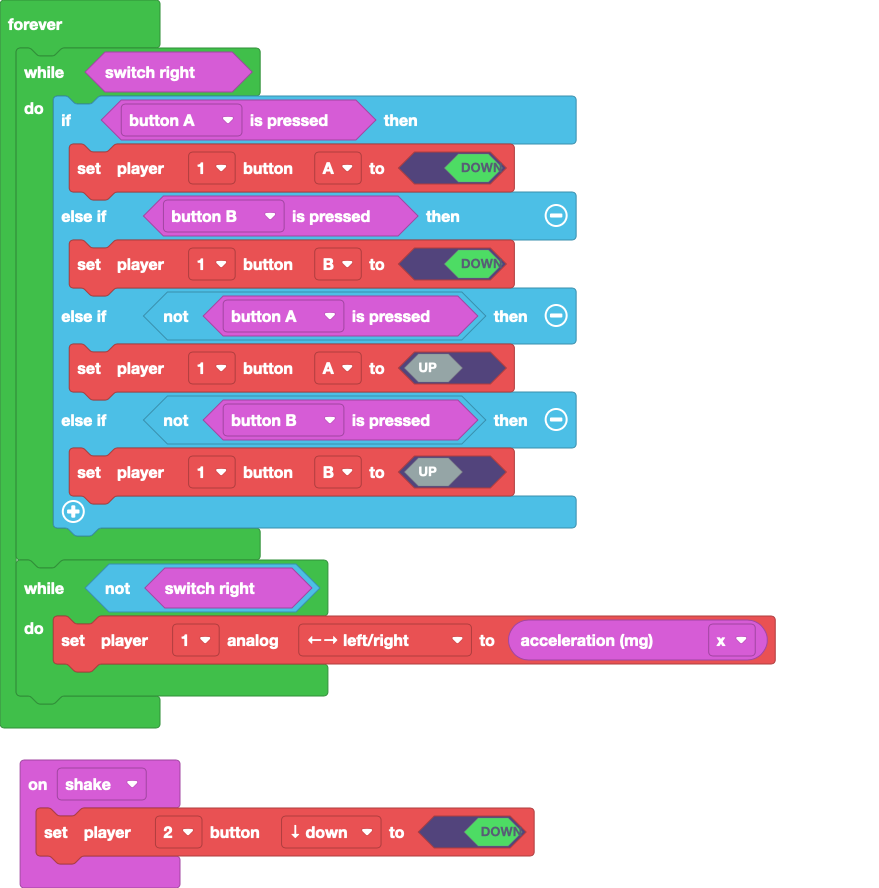
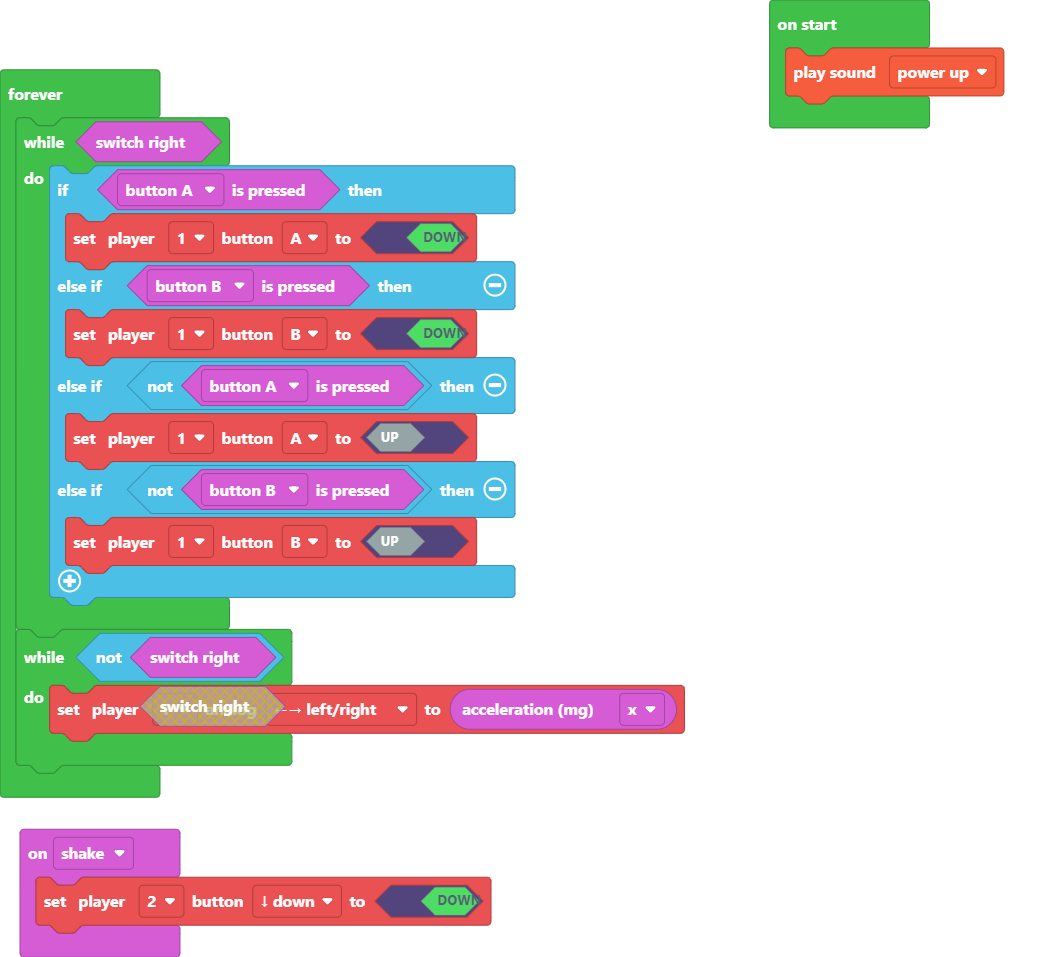
Update main.blocks, main.ts

diff --git a/main.ts b/main.ts
@@ -1,6 +1,7 @@
 input.onGesture(Gesture.Shake, function () {
     makerController.player2.setButton(ArcadeButton.Down, true)
 })
+music.powerUp.play()
 forever(function () {
     while (input.switchRight()) {
         if (input.buttonA.isPressed()) {
